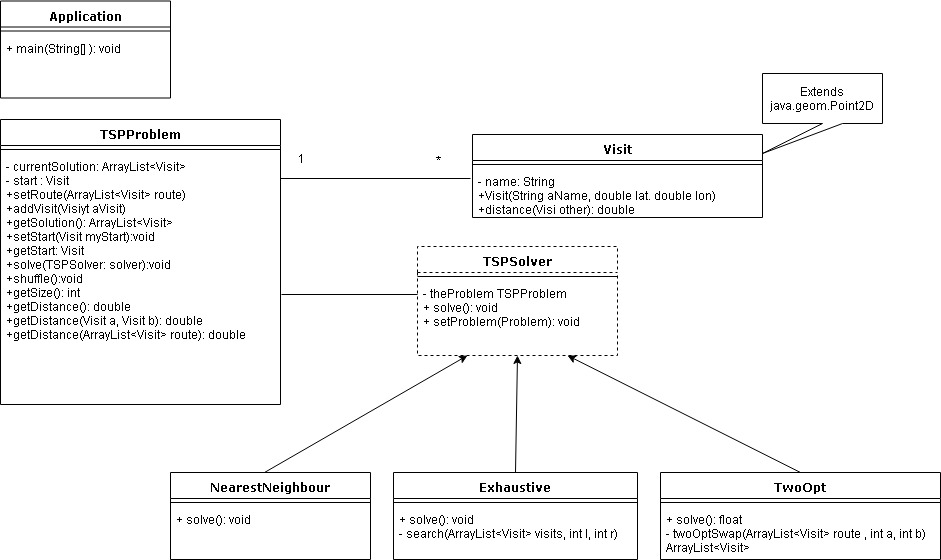
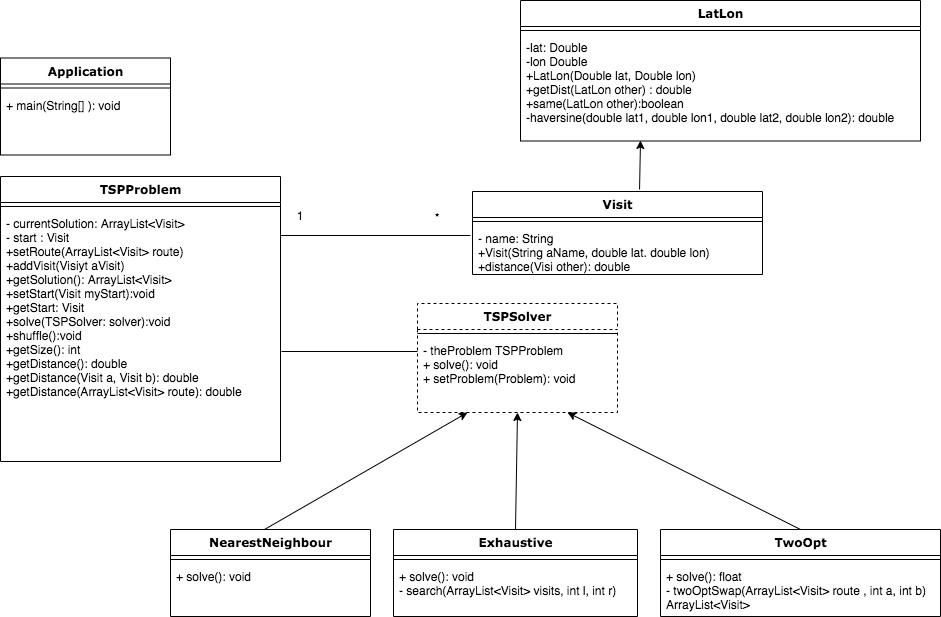
Updated Ch1

diff --git a/Chapter1/src/book/ch1/LatLon.java b/Chapter1/src/book/ch1/LatLon.java
@@ -1,0 +1,51 @@
+package book.ch1;
+
+import java.io.Serializable;
+
+public class LatLon implements Serializable{
+	private double lat;
+	private double lon;
+	
+	public LatLon(double lt, double ln){
+		if ((lt < -90)||(lt > 90))
+			throw new IllegalArgumentException();
+		
+		if ((ln < -180)||(ln > 180))
+			throw new IllegalArgumentException();
+		lat = lt;
+		lon = ln;
+	}
+	
+	public double getLat() {
+		return lat;
+	}
+	
+	public double getLon() {
+		return lon;
+	}
+	
+	public String toString(){
+		return lat + "\t" + lon;
+	}
+	public double getDist(LatLon other){
+		return haversine(this.lat,this.lon,other.lat,other.lon);
+	}
+	
+	public boolean same(LatLon other) {
+		return this.lat == other.lat && other.lon == this.lon;
+	}
+	
+	private static double haversine(double lat1, double lon1, double lat2, double lon2) {
+		/* from https://rosettacode.org/wiki/Haversine_formula */
+		final double R = 6372.8; // In kilometers
+	    
+        double dLat = Math.toRadians(lat2 - lat1);
+        double dLon = Math.toRadians(lon2 - lon1);
+        lat1 = Math.toRadians(lat1);
+        lat2 = Math.toRadians(lat2);
+ 
+        double a = Math.pow(Math.sin(dLat / 2),2) + Math.pow(Math.sin(dLon / 2),2) * Math.cos(lat1) * Math.cos(lat2);
+        double c = 2 * Math.asin(Math.sqrt(a));
+        return R * c;
+    }
+}

diff --git a/Chapter1/src/book/ch1/Visit.java b/Chapter1/src/book/ch1/Visit.java
@@ -7,7 +7,7 @@ import java.awt.geom.Point2D;
  * A simple class representing a visit that extends the Java Point class
  * 
  */
-public class Visit extends Point2D.Double{
+public class Visit extends LatLon{
  	protected String theName;
  	
  	public Visit(String name, double lat, double lon){
@@ -24,9 +24,9 @@ public class Visit extends Point2D.Double{
  	}
  	
  	public double distance(Visit v) {
- 		//Return the distance between 2 points based upon the Euclidean distance
- 		//as implemented within 
- 		return super.distance(v);
+ 		//Return the distance between 2 points based upon the Haversine
+ 		//as implemented within LatLon
+ 		return super.getDist(v);
  	}
 
 	

diff --git a/Chapter1/src/book/ch1/TwoOptTSPSolver.java b/Chapter1/src/book/ch1/TwoOptTSPSolver.java
@@ -26,6 +26,7 @@ public class TwoOptTSPSolver extends TSPSolver{
 						theProblem.setRoute(new_route);//The modified route now becomes the current route
 						improved = true; 
 						best_distance = new_distance;
+						System.out.println("Improved ("+i+":"+k+")" + best_distance);
 						break;//Break out of the loops
 					}
 				}
